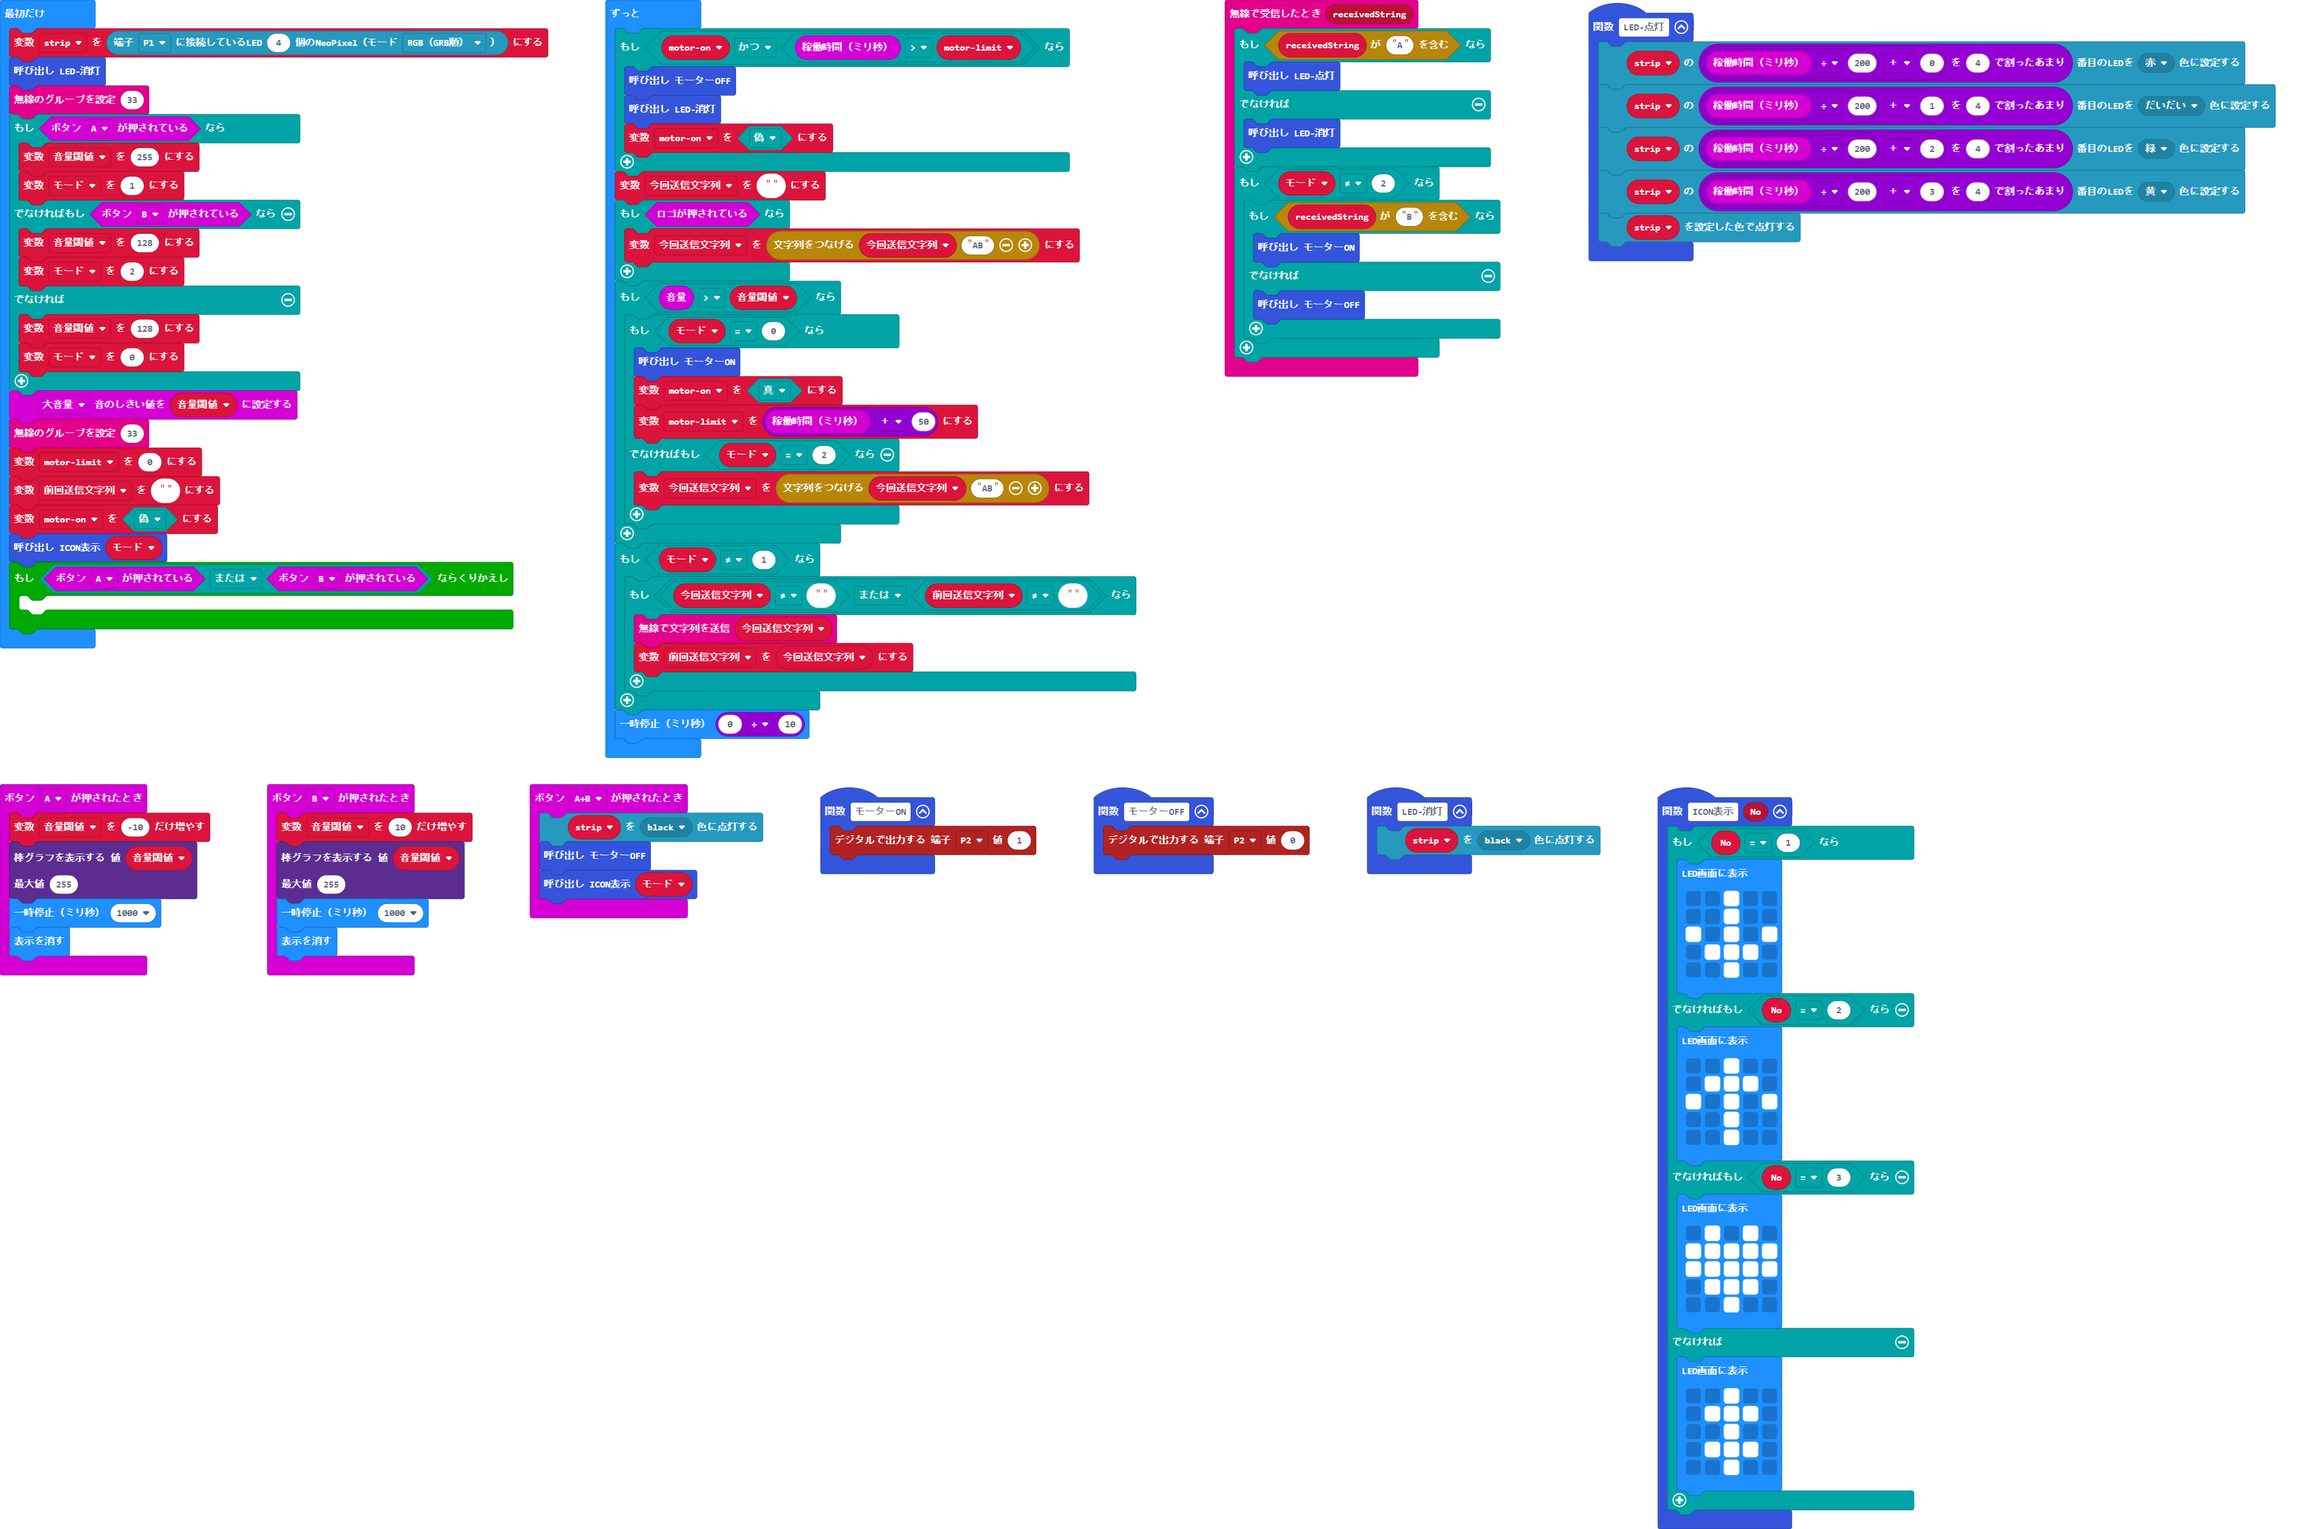
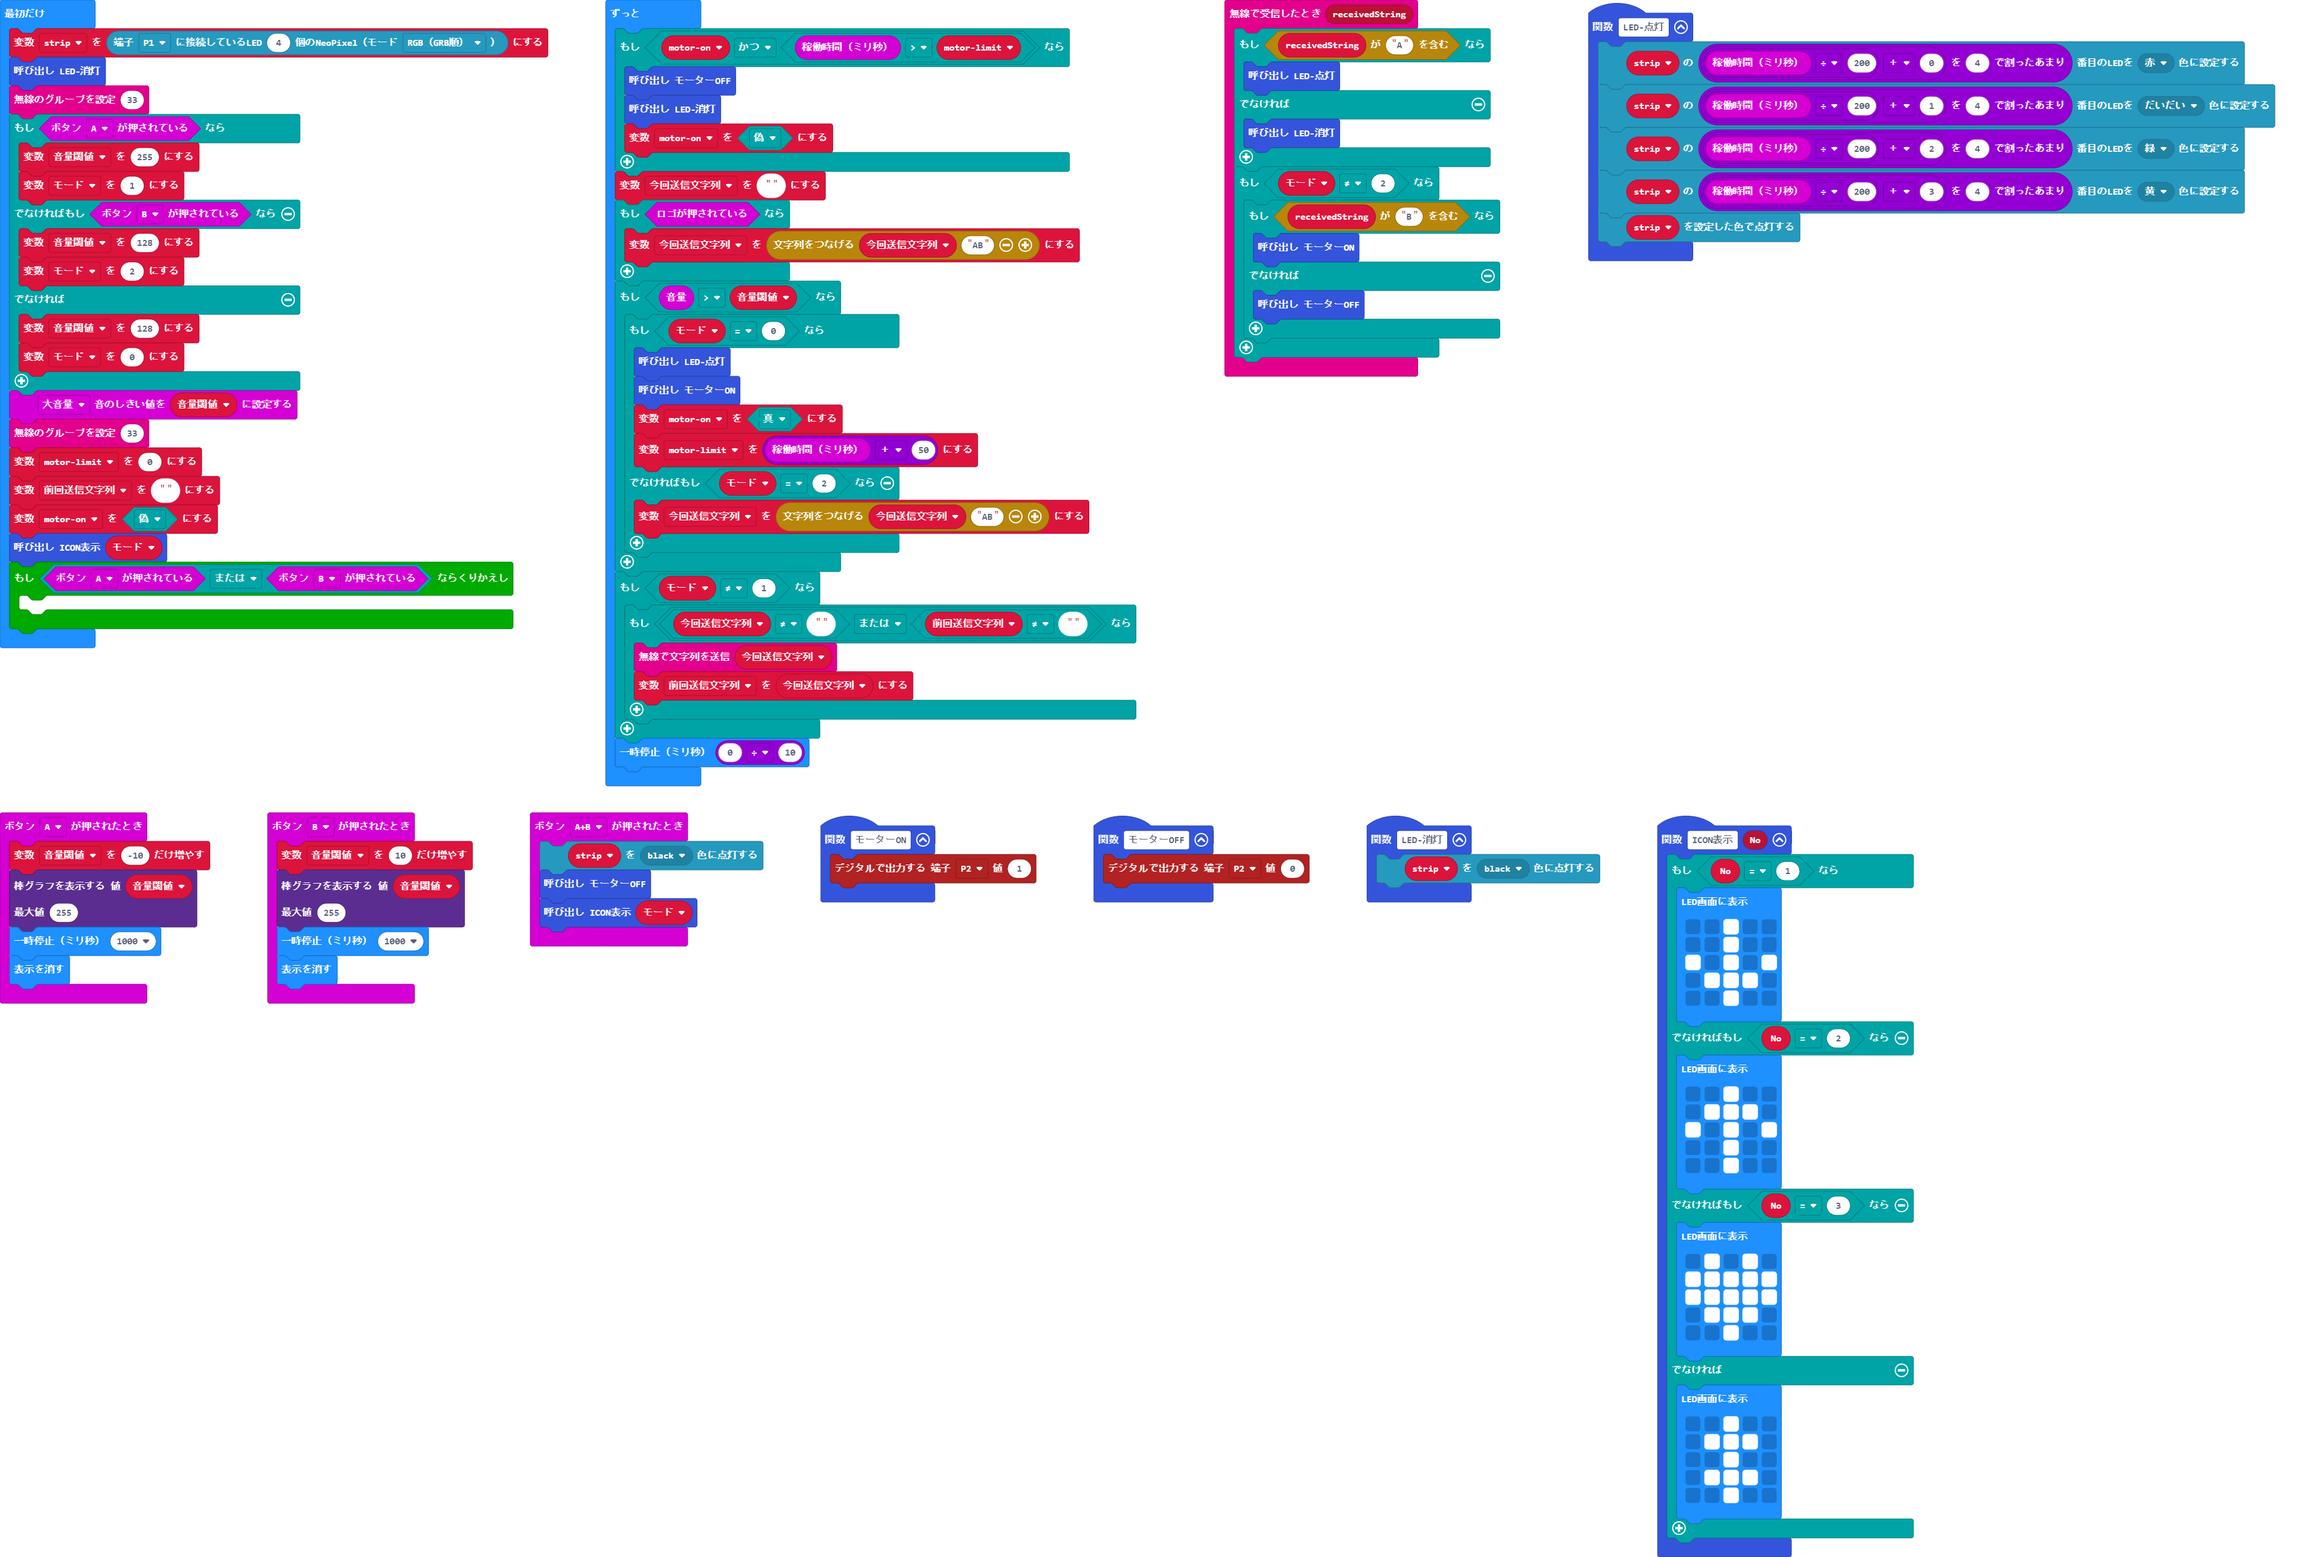
更新 main.blocks, main.ts

diff --git a/main.ts b/main.ts
@@ -124,6 +124,7 @@ basic.forever(function () {
     }
     if (input.soundLevel() > 音量閾値) {
         if (モード == 0) {
+            LED点灯()
             モーターON()
             motoron = true
             motorlimit = input.runningTime() + 50
